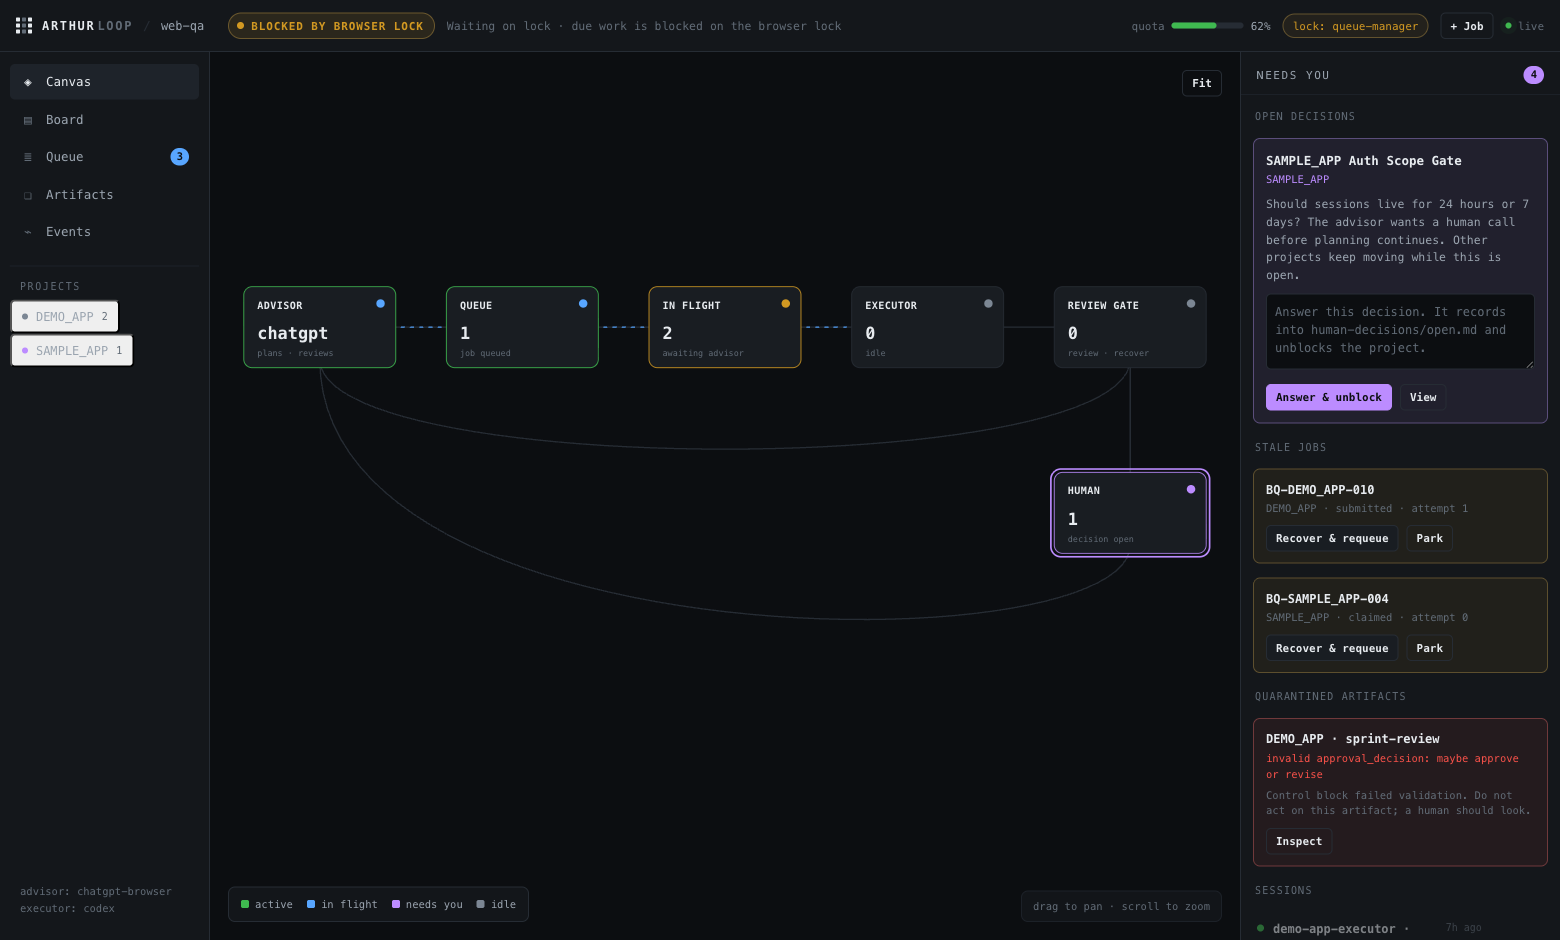
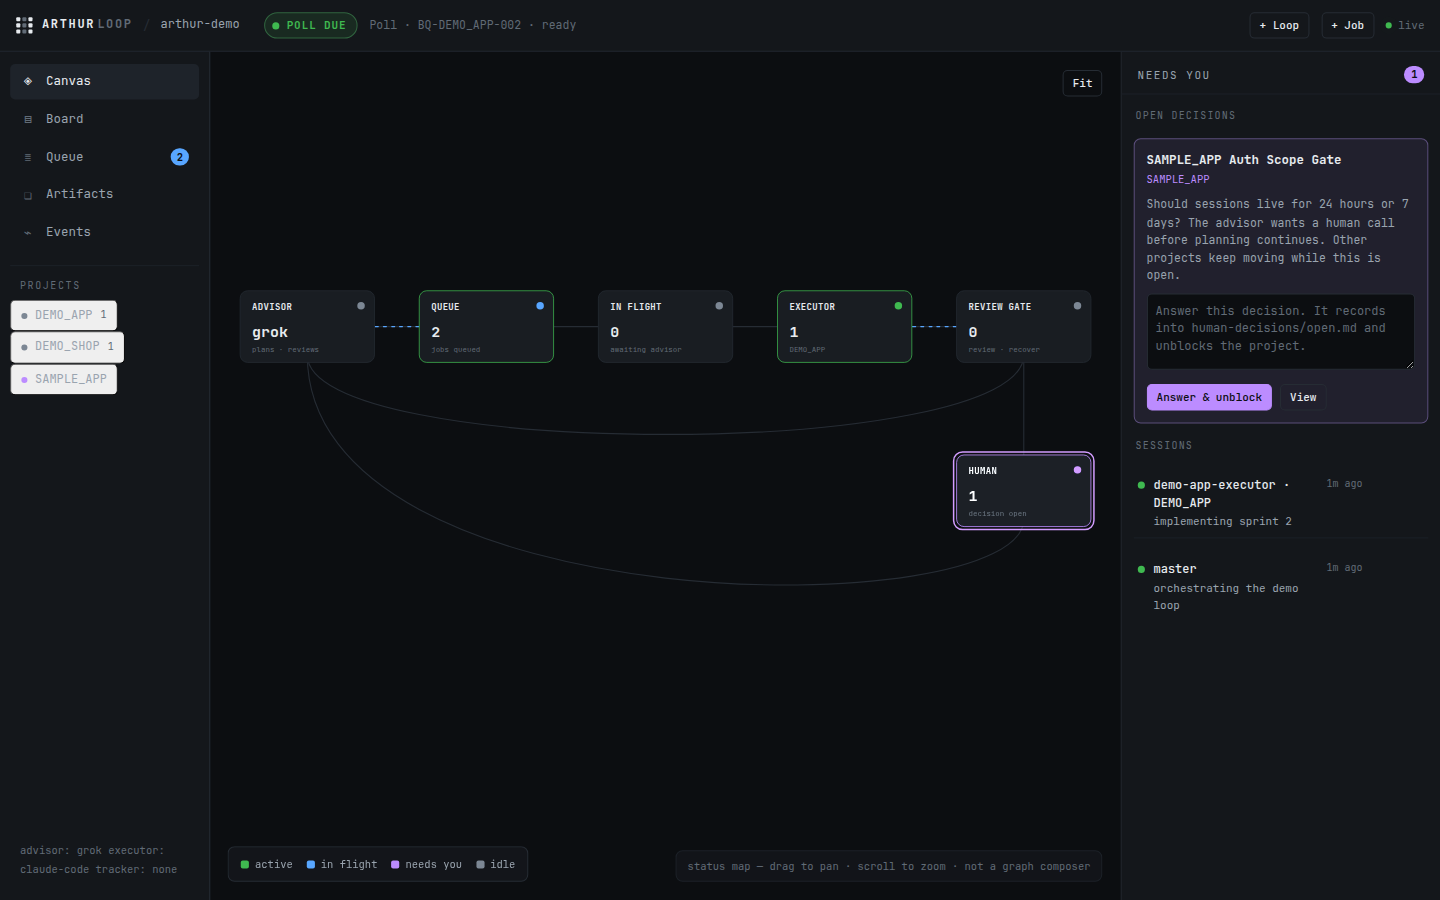
docs: recapture the web console and the create-loop wizard
Replace the stale cockpit shot with the current status map (+ Loop,
honest canvas hint, Grok as advisor). Add a wizard screenshot and point
how-it-works at it. No how-it-works video in this release.

diff --git a/site/index.html b/site/index.html
@@ -362,7 +362,7 @@
             <li><h3>Bring your stack</h3><p>Mix browser, CLI, or manual advisors with Codex, Claude Code, Grok Build, Atlas Tasker boards, and optional quota sources. Cursor gets skills and MCP, not a shipped executor pack.</p></li>
           </ul>
           <figure class="web-proof">
-            <img src="web-console.png" alt="Arthur Loop local web console with the advisor-to-human pipeline, one queued job, and an auth-scope decision awaiting a human" width="1440" height="900" />
+            <img src="web-console.png" alt="Arthur Loop local web console with the advisor-to-human status map, + Loop wizard control, queued work, and an auth-scope decision awaiting a human" width="1440" height="900" />
             <figcaption>The localhost console exposes six human actions, including an honest create-loop wizard. The canvas is a status map, not a graph composer.</figcaption>
           </figure>
         </div>

diff --git a/docs/how-it-works.md b/docs/how-it-works.md
@@ -9,4 +9,4 @@ Download → a working multi-agent loop in minutes. No daemon, no hosted dashboa
 5. **Agents follow the loop** through MCP or the CLI: claim → submit/capture → implementation gate. Humans answer decisions in the web console or `arthur decision answer`.
 6. **If Atlas Tasker is installed**, `arthur tracker board --json` / MCP `arthur.board` reads ready/assigned work and `open-jobs` turns those tickets into queue jobs.
 
-See the [workflow runbook](workflow-runbook.md), [MCP](mcp.md), and [integrations](integrations.md). Demo GIF: [arthur-loop-demo.gif](assets/arthur-loop-demo.gif). Web console shot: [web-console.png](assets/web-console.png).
+See the [workflow runbook](workflow-runbook.md), [MCP](mcp.md), and [integrations](integrations.md). Terminal demo: [arthur-loop-demo.gif](assets/arthur-loop-demo.gif). Web console status map: [web-console.png](assets/web-console.png). Create-loop wizard: [create-loop-wizard.png](assets/create-loop-wizard.png). There is no separate how-it-works video in this release.
